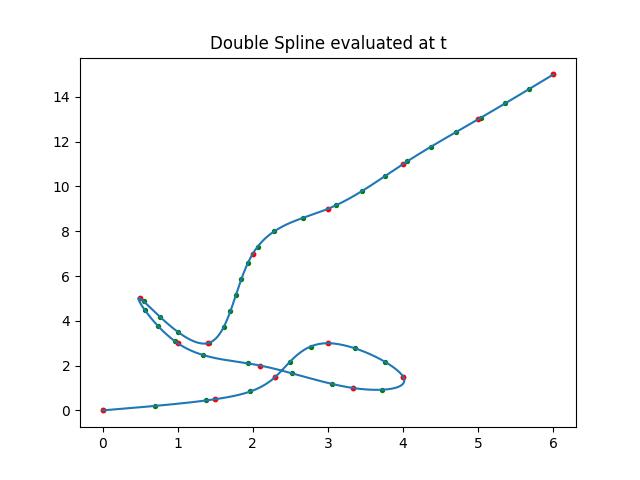
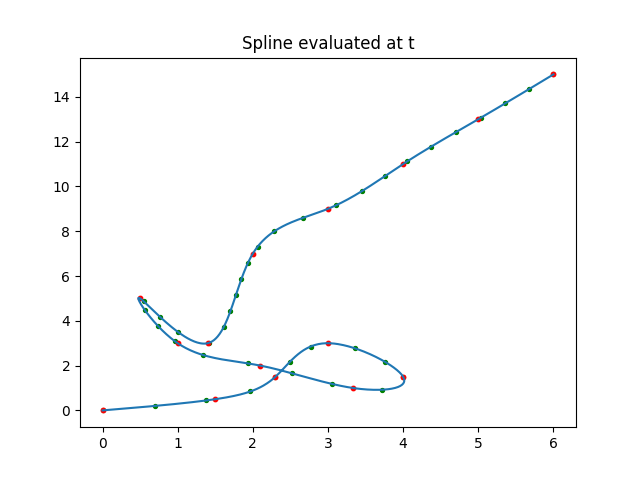
Added example spline

Changed region(s): [[0.3125, 0.0625, 0.7188, 0.125]]

diff --git a/example.cpp b/example.cpp
@@ -95,7 +95,7 @@ int main() {
     keywords["color"] = "red";
     std::map<std::string, std::string> keywords_equally;
     keywords_equally["color"] = "green";
-    plt::title("Double Spline evaluated at t");
+    plt::title("Spline evaluated at t");
     plt::plot(x_double_t_values, y_double_t_values);  // Replace these vectors with what you've computed
     plt::scatter(std::vector<double>(x_double_t_values_equally.data(), x_double_t_values_equally.data() + x_double_t_values_equally.size()),
                  std::vector<double>(y_double_t_values_equally.data(), y_double_t_values_equally.data() + y_double_t_values_equally.size()),
